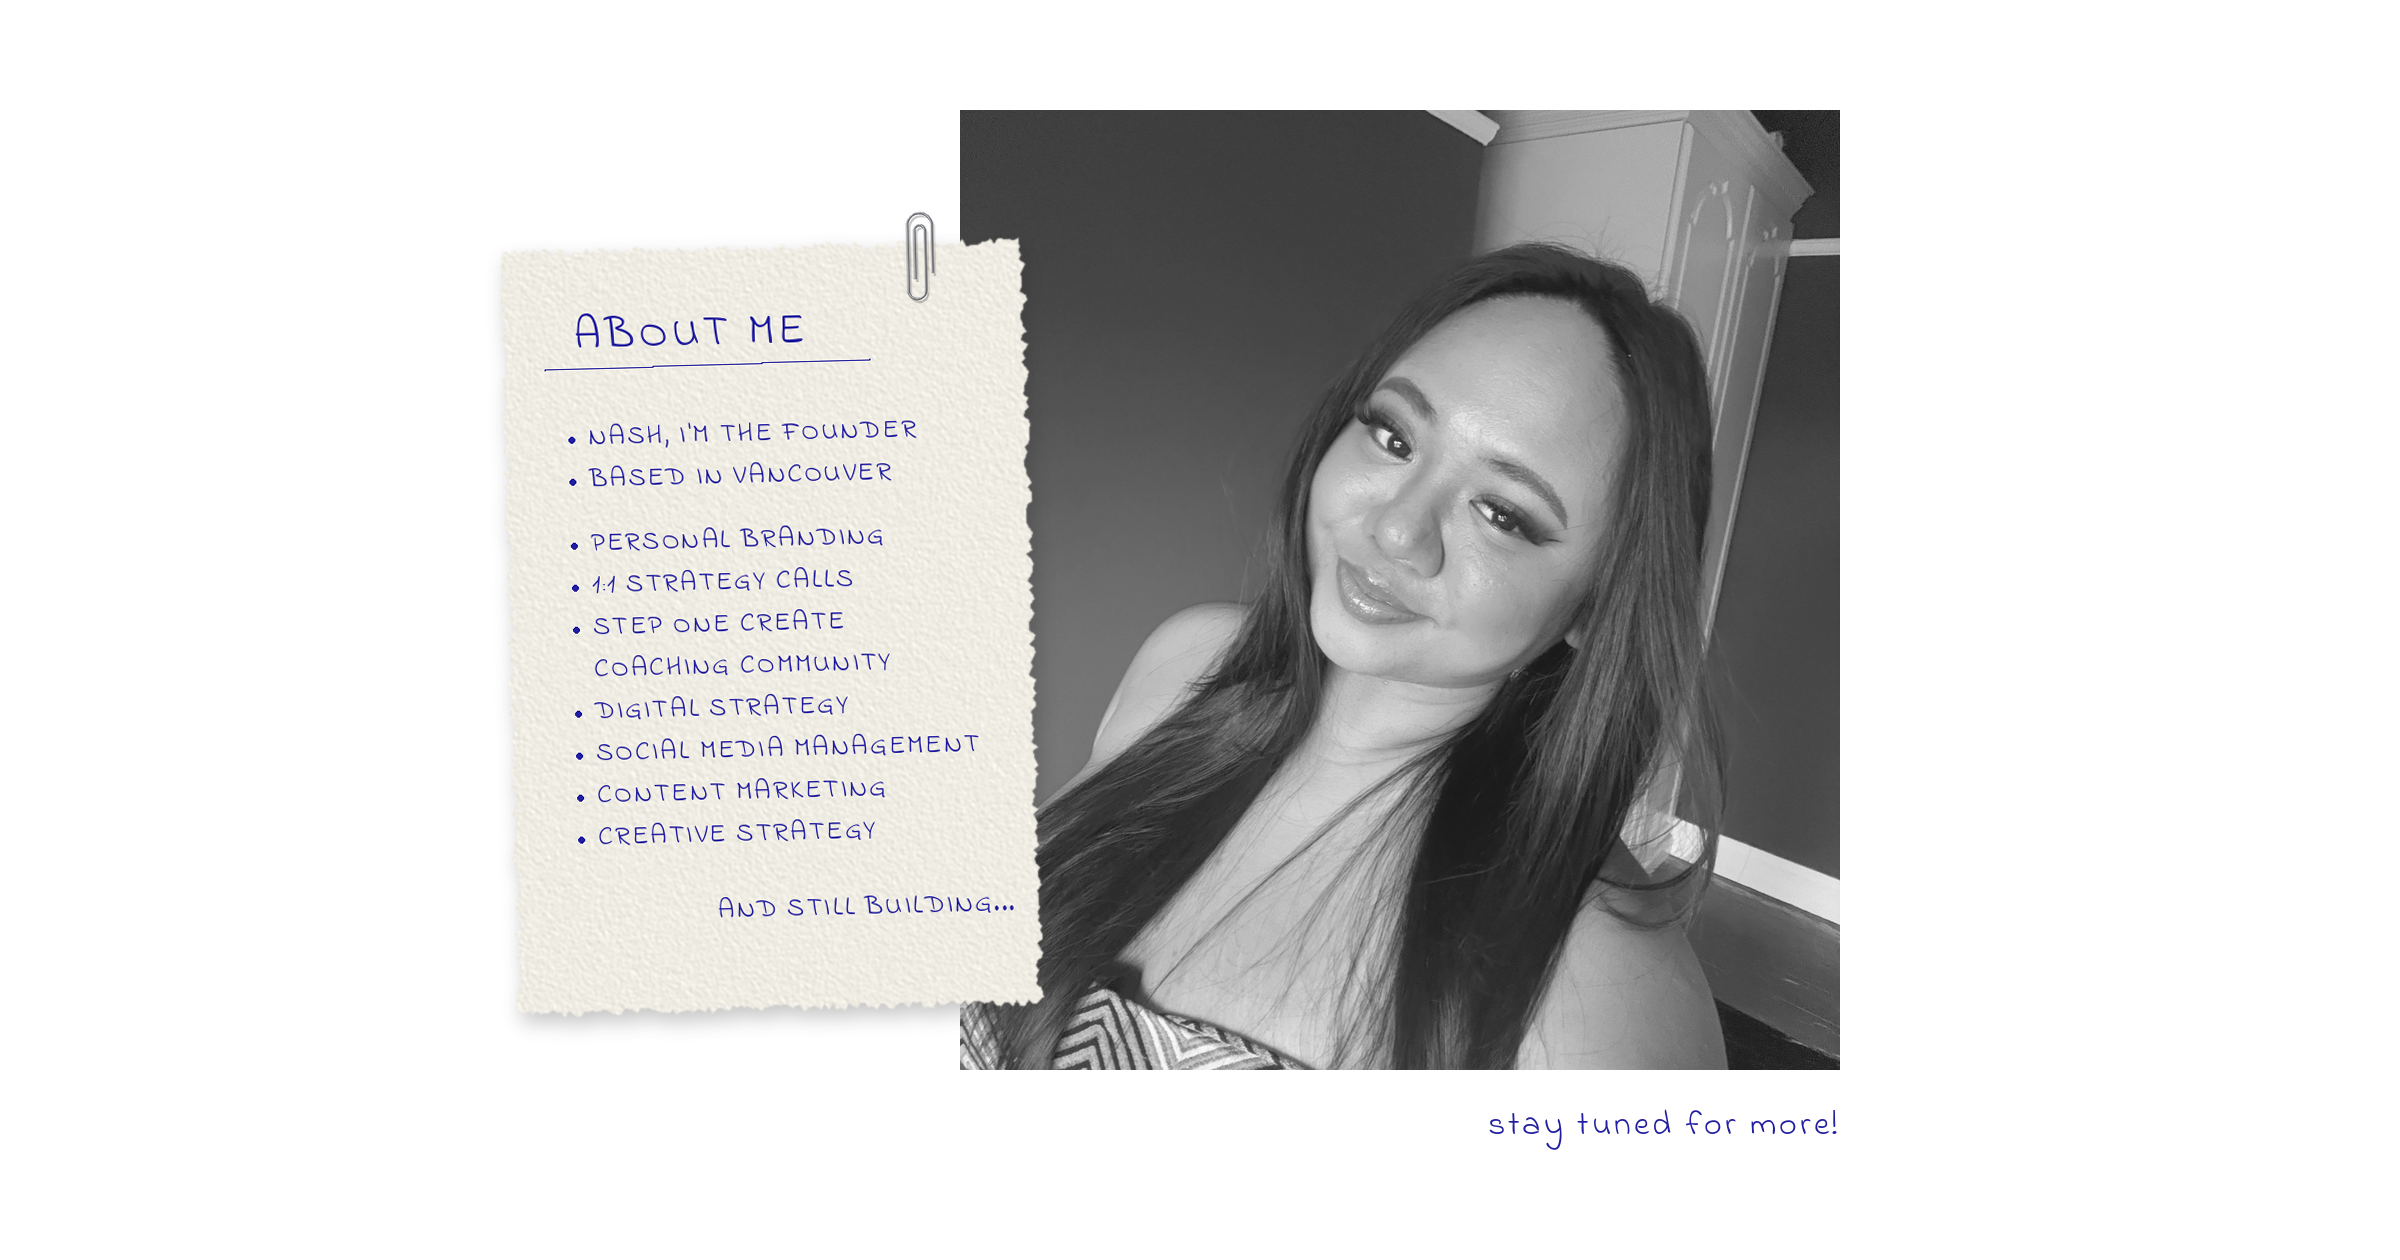
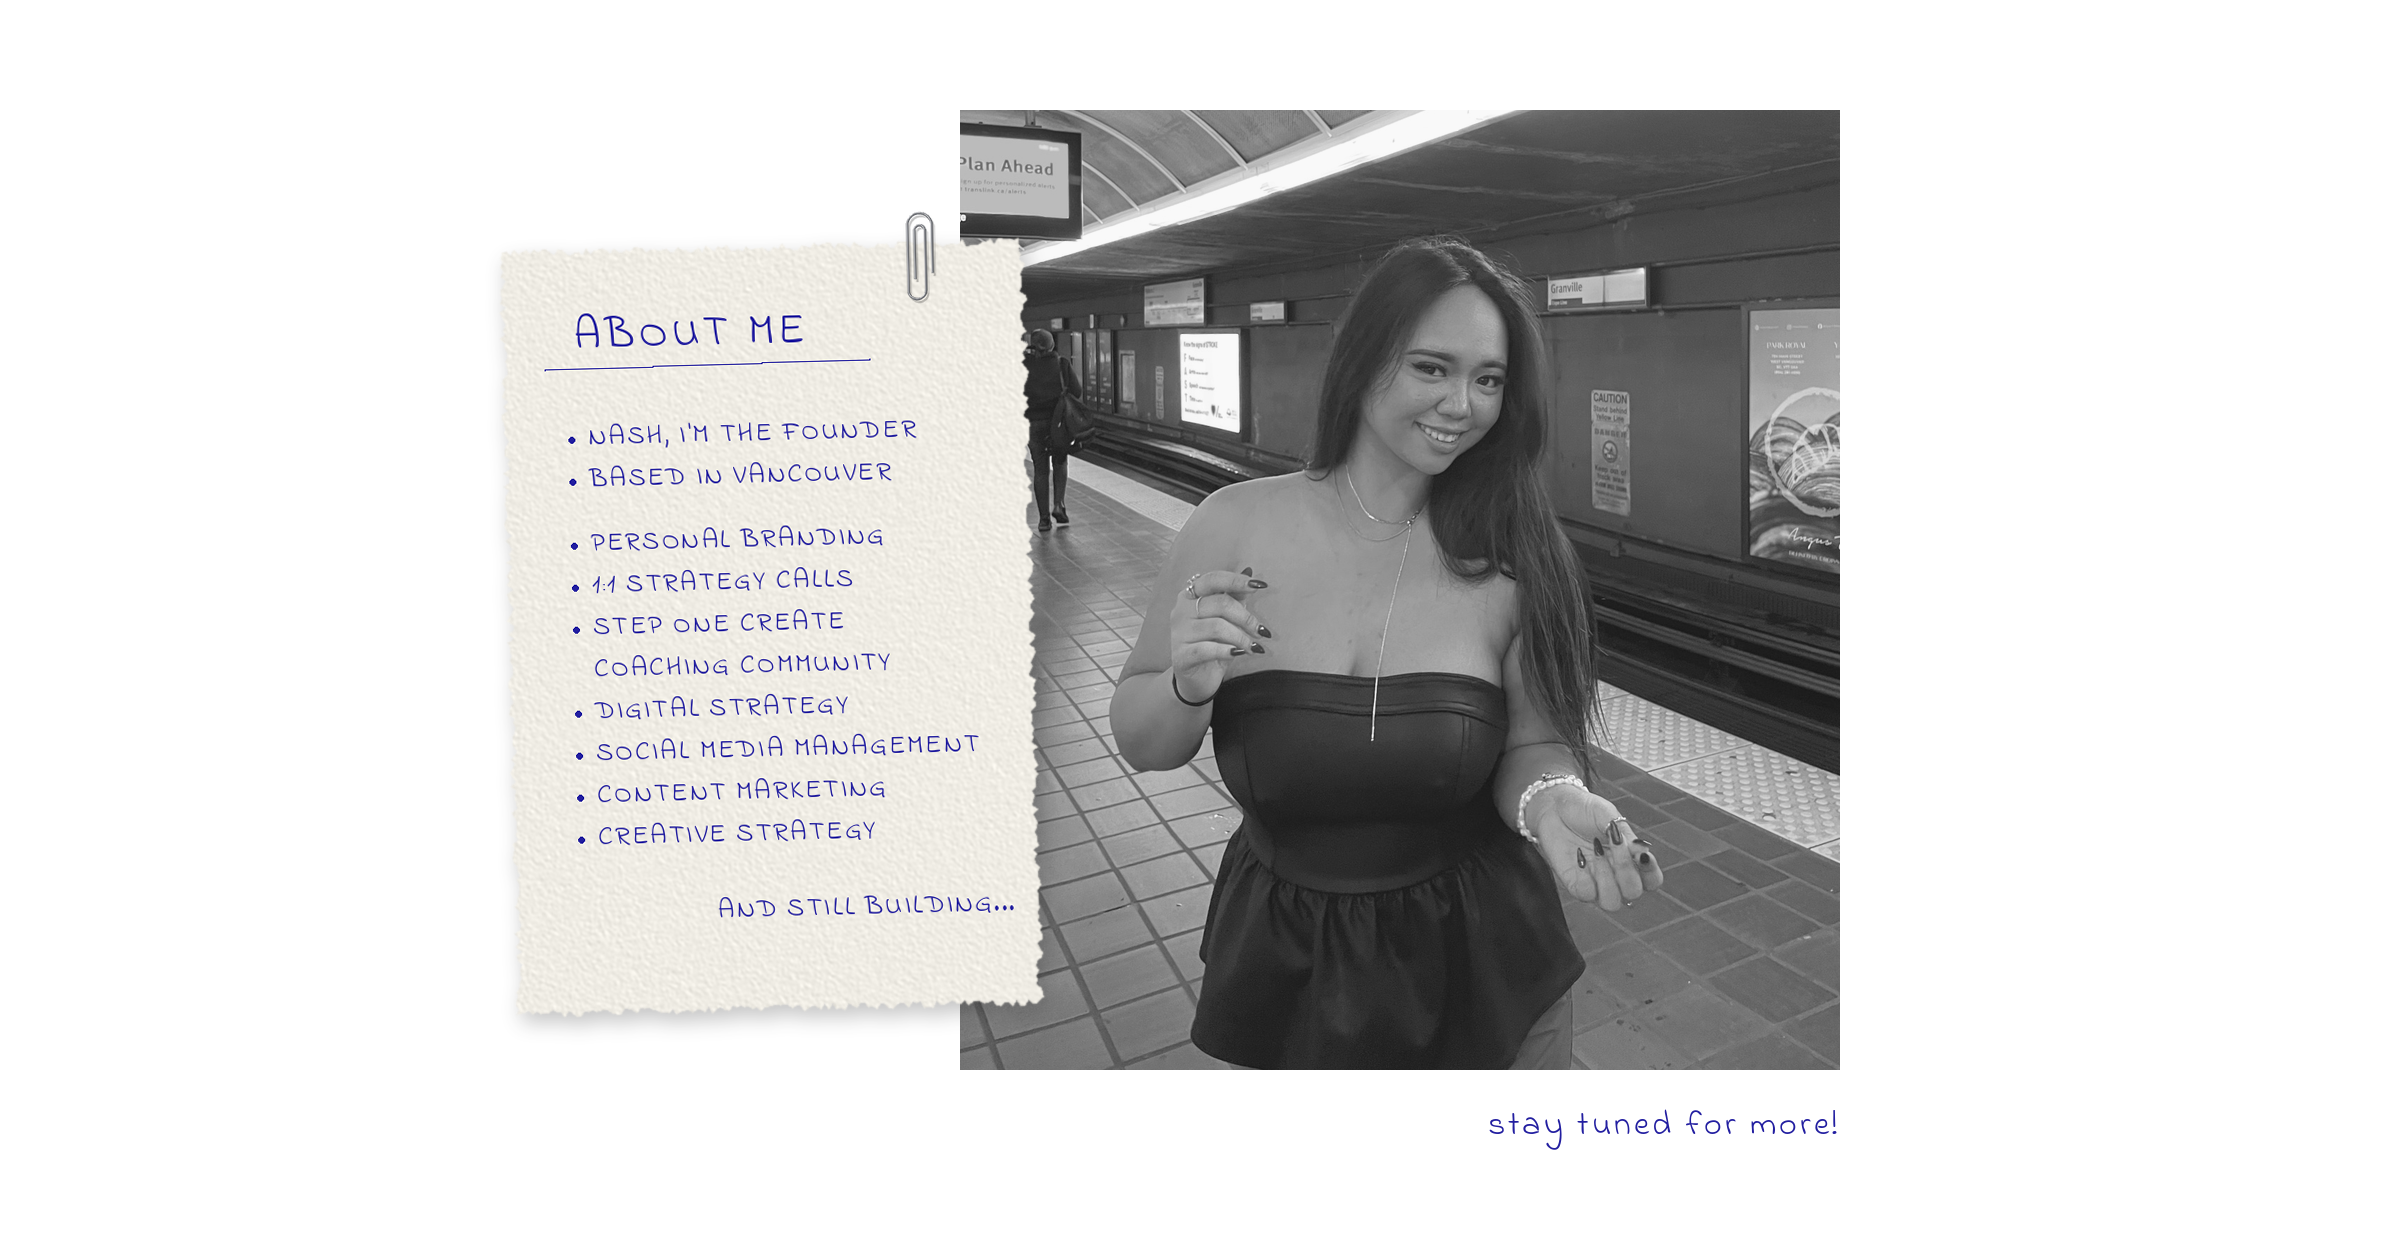
About me header: use SkyTrain photo; add crop zoom/centre options
Claude-Session: https://claude.ai/code/session_01UnZExAi7n6NZXi1T3YtVwj

Changed region(s): [[0.375, 0.0619, 0.7812, 0.8667]]

diff --git a/scripts/make_about_header.py b/scripts/make_about_header.py
@@ -17,10 +17,13 @@ canvas = Image.new("RGB", (W, H), (255, 255, 255))
 PX0, PY0, PX1, PY1 = 960, 110, 1840, 1070
 pw, ph = PX1 - PX0, PY1 - PY0
 src = ImageOps.grayscale(Image.open(SRC))
-s = pw / src.width
-src = src.resize((pw, round(src.height * s)), Image.LANCZOS)
-top = int((int(sys.argv[3]) if len(sys.argv) > 3 else 270) * s)   # crop top, original px
-photo = src.crop((0, top, pw, top + ph))
+# optional args: crop top (orig px), crop width (orig px), crop centre x (orig px)
+crop_top = int(sys.argv[3]) if len(sys.argv) > 3 else 270
+crop_w = int(sys.argv[4]) if len(sys.argv) > 4 else src.width
+crop_cx = int(sys.argv[5]) if len(sys.argv) > 5 else src.width // 2
+crop_h = round(crop_w * ph / pw)
+x0 = max(0, min(src.width - crop_w, crop_cx - crop_w // 2))
+photo = src.crop((x0, crop_top, x0 + crop_w, crop_top + crop_h)).resize((pw, ph), Image.LANCZOS)
 a = np.asarray(photo).astype(np.float32) / 255
 a = np.clip(0.10 + 0.88 * (a ** 0.92), 0, 1)   # soft, lifted blacks
 canvas.paste(Image.fromarray((a * 255).astype(np.uint8)).convert("RGB"), (PX0, PY0))
